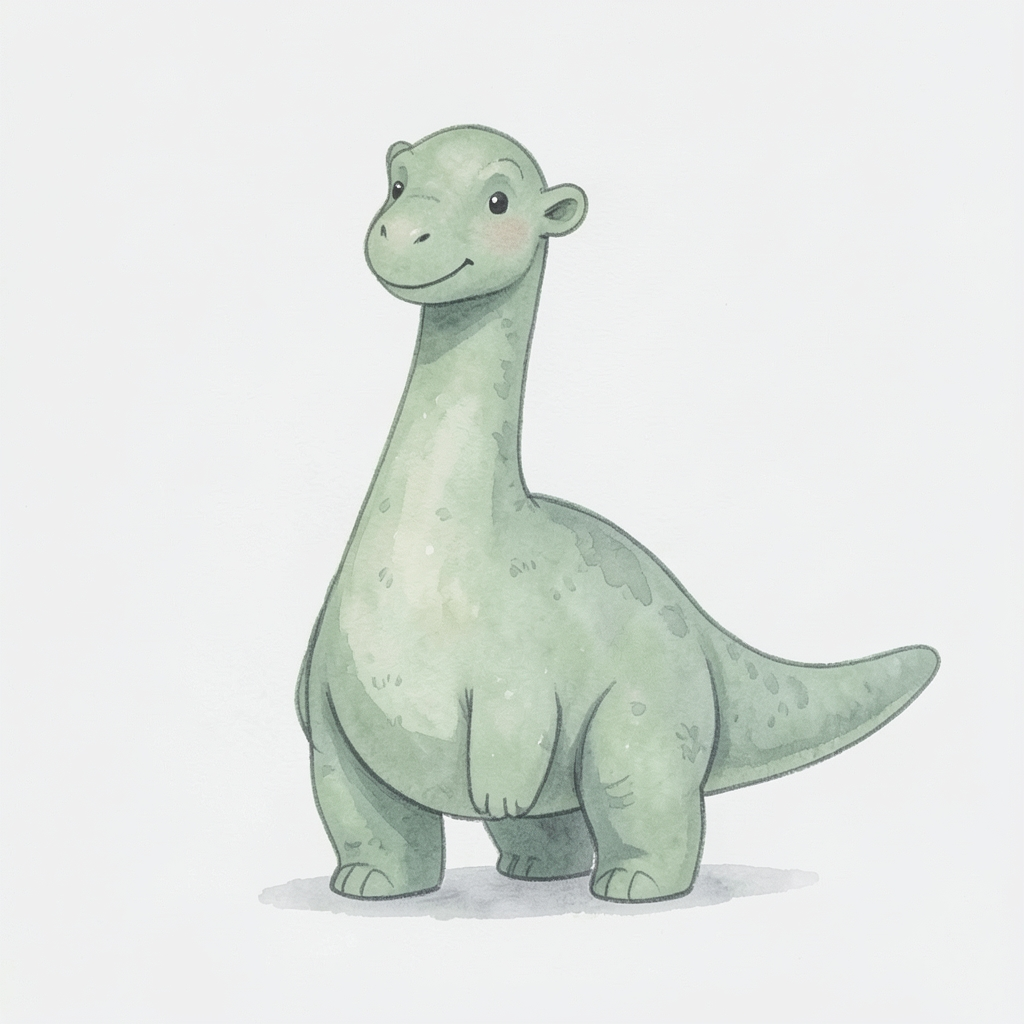
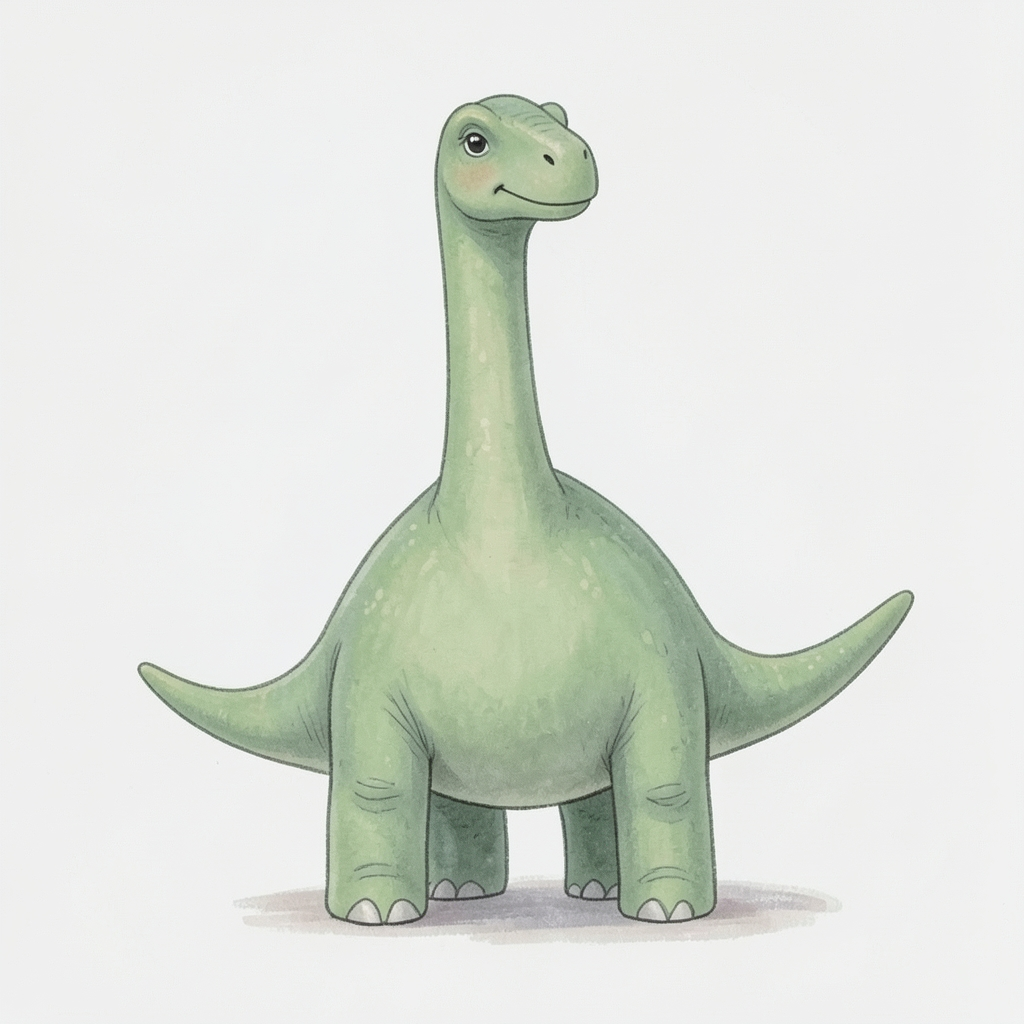
Fix dinosaur legs equal and remove ears

Changed region(s): [[0.125, 0.0938, 0.9375, 0.9375]]

diff --git a/resources/General_reviews/Asset_Generation/prompts/animal-dinosaur.md b/resources/General_reviews/Asset_Generation/prompts/animal-dinosaur.md
@@ -16,11 +16,11 @@ Background: pure white, completely plain white background, no pillow, no bedding
 
 --- prompt ---
 
-Create one clearly recognizable a friendly long-necked sauropod dinosaur in soft green, rounded body, small head properly proportioned and aligned with the long neck and body (head sits naturally at the end of the neck in correct anatomical relation), gentle expression, four sturdy legs, exactly ONE long thick tail (single tail only, no second tail, no extra tails) as a standalone children's storybook illustration.
+Create one clearly recognizable a friendly long-necked sauropod dinosaur in soft green, rounded body, small head properly proportioned and aligned with the long neck and body (head sits naturally at the end of the neck in correct anatomical relation), gentle expression, NO ears, four sturdy legs of equal length and same thickness, exactly ONE long thick tail (single tail only, no second tail, no extra tails) as a standalone children's storybook illustration.
 
 Match the Little Play family style: rounded softened construction, restrained watercolor grain, muted storybook colours rather than neon, gentle painted shading, and no heavy outline.
 
 Center the complete subject with comfortable padding and no cropping. The subject is the only thing in the frame. It must read clearly at small size.
 
-No fierce teeth, no pillow, no bedding, no background scene, no multiple dinosaurs, no two tails, no extra tails, no background scene, no multiple subjects, no text, letters, logo, person, hand, glossy 3D rendering, photorealism, emoji/vector styling, heavy black outline, strong glow, or extra objects.
+No fierce teeth, no pillow, no bedding, no background scene, no multiple dinosaurs, no two tails, no extra tails, no ears, no long ears, no floppy ears, four equal legs, equal leg length, no background scene, no multiple subjects, no text, letters, logo, person, hand, glossy 3D rendering, photorealism, emoji/vector styling, heavy black outline, strong glow, or extra objects.
 
